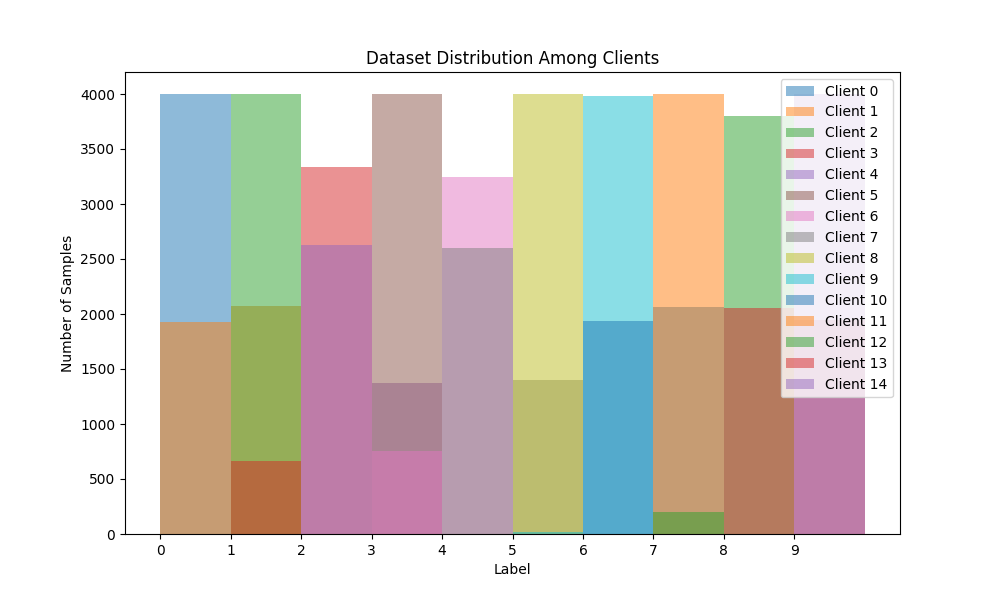
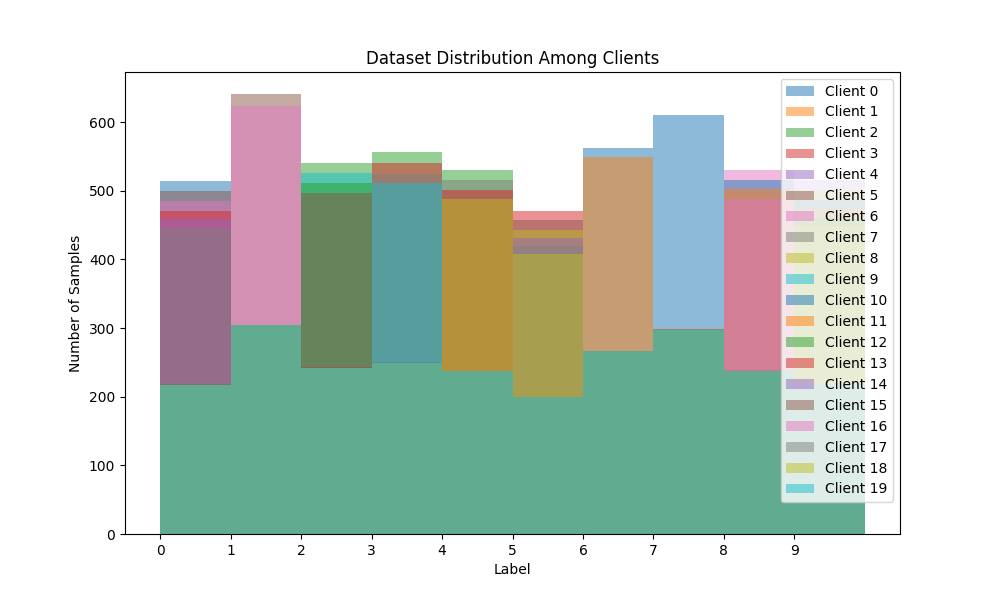
new result:

diff --git a/federated_learning.py b/federated_learning.py
@@ -243,13 +243,13 @@ if __name__ == "__main__":
     time_now = time.strftime("%H_%M", time.localtime())
     
     model_path = "weights"
-    mode = "IID"
+    mode = "non-IID"
     print("running {} mode...".format(mode))
     
     dataset = MnistDataset(root='mnist_train')
     model = "CNN"
     Model = getattr(models, model)
-    num_clients = 15
+    num_clients = 20
     epochs = 1
     num_rounds = 30
     learning_rate = 0.001
